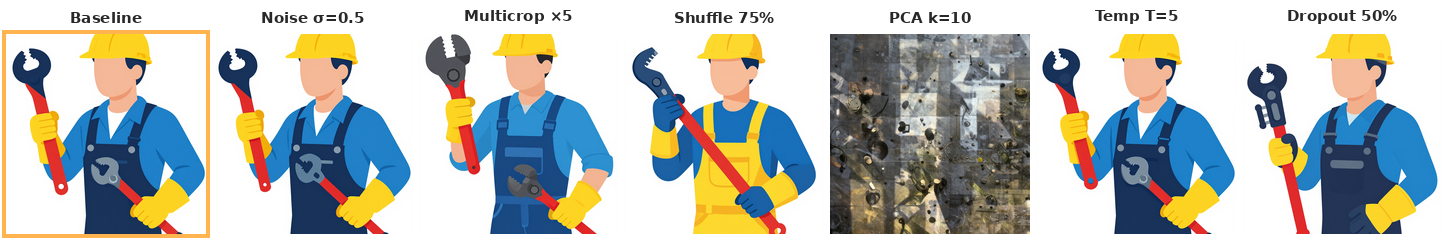
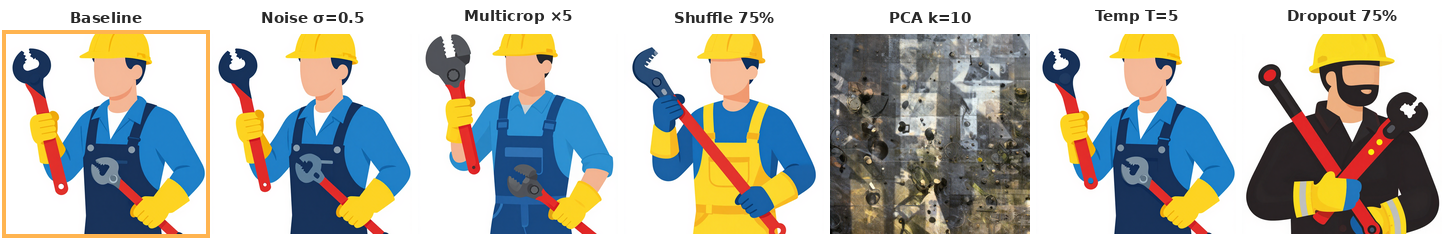
Update Part 2: I→we, updated figures and captions, inline palette note

Changed region(s): [[0.8391, 0.1458, 0.9945, 0.9917], [0.9323, 0.0292, 0.9634, 0.0875]]

diff --git a/posts/emergent-rabbit-hole-2/index.html b/posts/emergent-rabbit-hole-2/index.html
@@ -43,7 +43,7 @@
                 </figure>
 
                 <p>
-                    In <a href="../emergent-rabbit-hole/">Part 1</a>, I showed how a simple weight splice turns Z-Image into an image-to-image model &mdash; zero training, just swapping QwenVL's LM weights with Z-Image's. The results were surprisingly clean. But something was bugging me.
+                    In <a href="../emergent-rabbit-hole/">Part 1</a>, we showed how a simple weight splice turns Z-Image into an image-to-image model &mdash; zero training, just swapping QwenVL's LM weights with Z-Image's. The results were surprisingly clean. However...
                 </p>
 
                 <nav class="distill-toc">
@@ -66,14 +66,14 @@
                 </figure>
 
                 <p>
-                    Two things bothered me: <strong>1)</strong> the generated images are too similar to the original &mdash; same color palette, same outfits, same composition. This defeats the whole point if variations are just slightly reshuffled copies. <strong>2)</strong> generations across different seeds are nearly identical. Z-Image-Turbo has well-known mode collapse, but it's particularly bad with image conditioning. The VL embeddings are so strong that the DiT has very little room to explore.
+                    Two things bothered us: <strong>1)</strong> the generated images are too similar to the original &mdash; same color palette, same outfits, same composition. This defeats the whole point if variations are just slightly reshuffled copies. <strong>2)</strong> generations across different seeds are nearly identical. Z-Image-Turbo has well-known mode collapse, but it's particularly bad with image conditioning. The VL embeddings are so strong that the DiT has very little room to explore.
                 </p>
 
-                <p>So I set out to fix at least the first problem and hopefully get the second one for free along the way.</p>
+                <p>So we set out to fix at least the first problem and hopefully get the second one for free along the way.</p>
 
                 <h2 id="ablations">Different Ablations</h2>
 
-                <p>I tried a bunch of standard approaches to increase diversity. Here's the rundown &mdash; most of them didn't work.</p>
+                <p>We tried a bunch of standard approaches to increase diversity. Here's the rundown &mdash; most of them didn't work.</p>
 
                 <table>
                     <tr>
@@ -122,12 +122,12 @@
 
                 <figure class="figure-wide">
                     <img src="fig_ablation_grid.png" alt="Ablation comparison showing different diversity methods">
-                    <figcaption>Figure 2: Baseline vs one setting per method, all at seed 42. Noise and temperature barely change anything from baseline. Multicrop and shuffle produce slight variation. PCA is straight up garbled. Dropout at just 50% already shows a meaningful shift &mdash; different tool, different pose. The simplest method wins.</figcaption>
+                    <figcaption>Figure 2: Baseline vs one setting per method. Most methods at seed 42 &mdash; dropout shown at seed 777 to highlight the diversity. Noise and temperature barely change anything from baseline. Multicrop and shuffle produce slight variation. PCA is straight up garbled. Dropout at 75% produces a completely different outfit and pose. The simplest method wins.</figcaption>
                 </figure>
 
                 <h2 id="token-dropout">Token Dropout: The Clear Winner</h2>
 
-                <p>Then I tried the simplest possible thing: <strong>randomly remove a fraction of tokens from the conditioning sequence</strong> before passing it to the DiT.</p>
+                <p>Then we tried the simplest possible thing: <strong>randomly remove a fraction of tokens from the conditioning sequence</strong> before passing it to the DiT.</p>
 
                 <p>Here's what happens as you increase the dropout rate:</p>
 
@@ -152,7 +152,7 @@
                 </p>
 
                 <p>
-                    But there's a catch. Look at seed s2024 &mdash; the one with the red border in Figure 4. Weird noisy artifacts, color shifts. Let me zoom in:
+                    But there's a catch. Look at seed s2024 &mdash; the one with the red border in Figure 4. Weird noisy artifacts, color shifts. Zooming in:
                 </p>
 
                 <figure class="figure-wide">
@@ -165,10 +165,10 @@
                 <h2 id="attention-sinks">The Side Quest: Hunting Attention Sinks</h2>
 
                 <p>
-                    I stared at the broken seeds for a while, then had a hypothesis: maybe some tokens are more important than others. At 75% random dropout, we're probably dropping some critical tokens that the DiT really needs.
+                    We stared at the broken seeds for a while, then had a hypothesis: maybe some tokens are more important than others. At 75% random dropout, we're probably dropping some critical tokens that the DiT really needs.
                 </p>
 
-                <p>To test this, I dug into what tokens actually exist in the conditioning sequence. The full VL embedding isn't just visual tokens &mdash; it's wrapped in a chat template:</p>
+                <p>To test this, we dug into what tokens actually exist in the conditioning sequence. The full VL embedding isn't just visual tokens &mdash; it's wrapped in a chat template:</p>
 
 <pre><code>&lt;|im_start|&gt; system \n You are a helpful assistant. &lt;|im_end|&gt; \n
 &lt;|im_start|&gt; user \n &lt;|vision_start|&gt; [visual tokens] &lt;|vision_end|&gt; &lt;|im_end|&gt; \n
@@ -190,7 +190,7 @@
                     <strong>Visual sinks</strong> are the top-left visual patch tokens, which absorb extra attention simply because they appear first in the visual token sequence (due to raster-scan ordering + causal attention). These are <em>positional</em> sinks &mdash; high-attention but not actually carrying unique information. After passing through 34 layers of the VL LLM with causal self-attention, image information gets redundantly spread across all visual tokens. Each visual token encodes a mixed representation of the full image context, not just its local patch. So dropping any individual visual token &mdash; even a high-attention one &mdash; barely matters, because the same information is recoverable from neighboring tokens. This redundancy is why we can drop 95% of visual tokens and still get coherent generations.
                 </p>
 
-                <p>I captured the DiT's attention patterns over the conditioning tokens during denoising, and the sink structure jumped right out:</p>
+                <p>We captured the DiT's attention patterns over the conditioning tokens during denoising, and the sink structure jumped right out:</p>
 
                 <figure class="figure-wide">
                     <img src="fig_attention_combined.png" alt="Attention heatmap showing template sinks and denoising progression">
@@ -205,7 +205,7 @@
                     This is why random dropout at 75% causes artifacts intermittently. With ~20 template tokens out of ~1000+ total, they're a tiny fraction &mdash; but at 75% dropout you're dropping ~750 tokens uniformly at random. The chance of hitting <em>at least one</em> of the ~20 template tokens is essentially 100%. The damage depends on <em>which</em> template token gets dropped &mdash; dropping <code>&lt;|im_start|&gt;</code> at position 0 (the biggest sink) is catastrophic, while dropping a less critical one might be survivable.
                 </p>
 
-                <p>So I ran a systematic ablation &mdash; keep or drop specific token groups and see what breaks:</p>
+                <p>So we ran a systematic ablation &mdash; keep or drop specific token groups and see what breaks:</p>
 
                 <figure class="figure-wide">
                     <img src="fig_attention_sinks.png" alt="Ablation showing effects of dropping different token groups">
@@ -245,7 +245,7 @@
                 </p>
 
                 <p>
-                    I identify visual token boundaries using the <code>&lt;|vision_start|&gt;</code> and <code>&lt;|vision_end|&gt;</code> special token IDs, then apply dropout exclusively within that range. Template tokens &mdash; the system prompt, chat formatting, everything outside the vision markers &mdash; are always preserved.
+                    We identify visual token boundaries using the <code>&lt;|vision_start|&gt;</code> and <code>&lt;|vision_end|&gt;</code> special token IDs, then apply dropout exclusively within that range. Template tokens &mdash; the system prompt, chat formatting, everything outside the vision markers &mdash; are always preserved.
                 </p>
 
                 <figure class="figure-wide">
@@ -290,7 +290,7 @@
                 </p>
 
                 <p>
-                    The VL model can encode multiple images in a single pass &mdash; they just become separate blocks of visual tokens in the conditioning sequence. So I tried a simple trick: encode the input image alongside a second &ldquo;palette&rdquo; image (a photo with the desired color scheme), apply 95% dropout to <em>both</em> images' visual tokens, and generate.
+                    The VL model can encode multiple images in a single pass &mdash; they just become separate blocks of visual tokens in the conditioning sequence. So we tried a simple trick: encode the input image alongside a second &ldquo;palette&rdquo; image (a photo with the desired color scheme), apply 95% dropout to <em>both</em> images' visual tokens, and generate.
                 </p>
 
                 <figure class="figure-wide">
@@ -299,13 +299,13 @@
                 </figure>
 
                 <p>
-                    The results are mixed but promising. When it works, you get generations that borrow color temperature and dominant hues from the palette image while still taking creative liberties with the subject. The palette influence is subtle though &mdash; it's more of a nudge than a hard constraint, since both images are getting aggressively dropped.<span class="sidenote-ref"></span><span class="sidenote">Applying dropout to both images is important: keeping the palette image intact produces striped/tiled background artifacts where the model copies palette patches verbatim.</span>
+                    The results are mixed but promising. When it works, you get generations that borrow color temperature and dominant hues from the palette image while still taking creative liberties with the subject. The palette influence is subtle though &mdash; it's more of a nudge than a hard constraint, since both images are getting aggressively dropped. Applying dropout to both images is important: keeping the palette image intact produces striped/tiled background artifacts where the model copies palette patches verbatim.
                 </p>
 
                 <h3>Layer choice as a second diversity knob</h3>
 
                 <p>
-                    All results so far use layer 34 &mdash; the penultimate LLM layer. But what happens if we tap an earlier layer? I ran the same dropout sweep at layer 24 and compared layer 34 at 85% dropout against layer 24 at 95% dropout:
+                    All results so far use layer 34 &mdash; the penultimate LLM layer. But what happens if we tap an earlier layer? We ran the same dropout sweep at layer 24 and compared layer 34 at 85% dropout against layer 24 at 95% dropout:
                 </p>
 
                 <figure class="figure-wide">
@@ -336,7 +336,7 @@
                 </p>
 
                 <p>
-                    I ran this experiment: 10 diverse prompts, 4 seeds each, dropping [0%, 75%, 85%, 95%, 99%] of text content tokens while keeping all template tokens intact. The content/template boundary is identified by encoding an empty string to find the template token count, then comparing token IDs to locate where content tokens are inserted.
+                    We ran this experiment: 10 diverse prompts, 4 seeds each, dropping [0%, 75%, 85%, 95%, 99%] of text content tokens while keeping all template tokens intact. The content/template boundary is identified by encoding an empty string to find the template token count, then comparing token IDs to locate where content tokens are inserted.
                 </p>
 
                 <p><em>Results coming soon &mdash; experiment in progress.</em></p>
